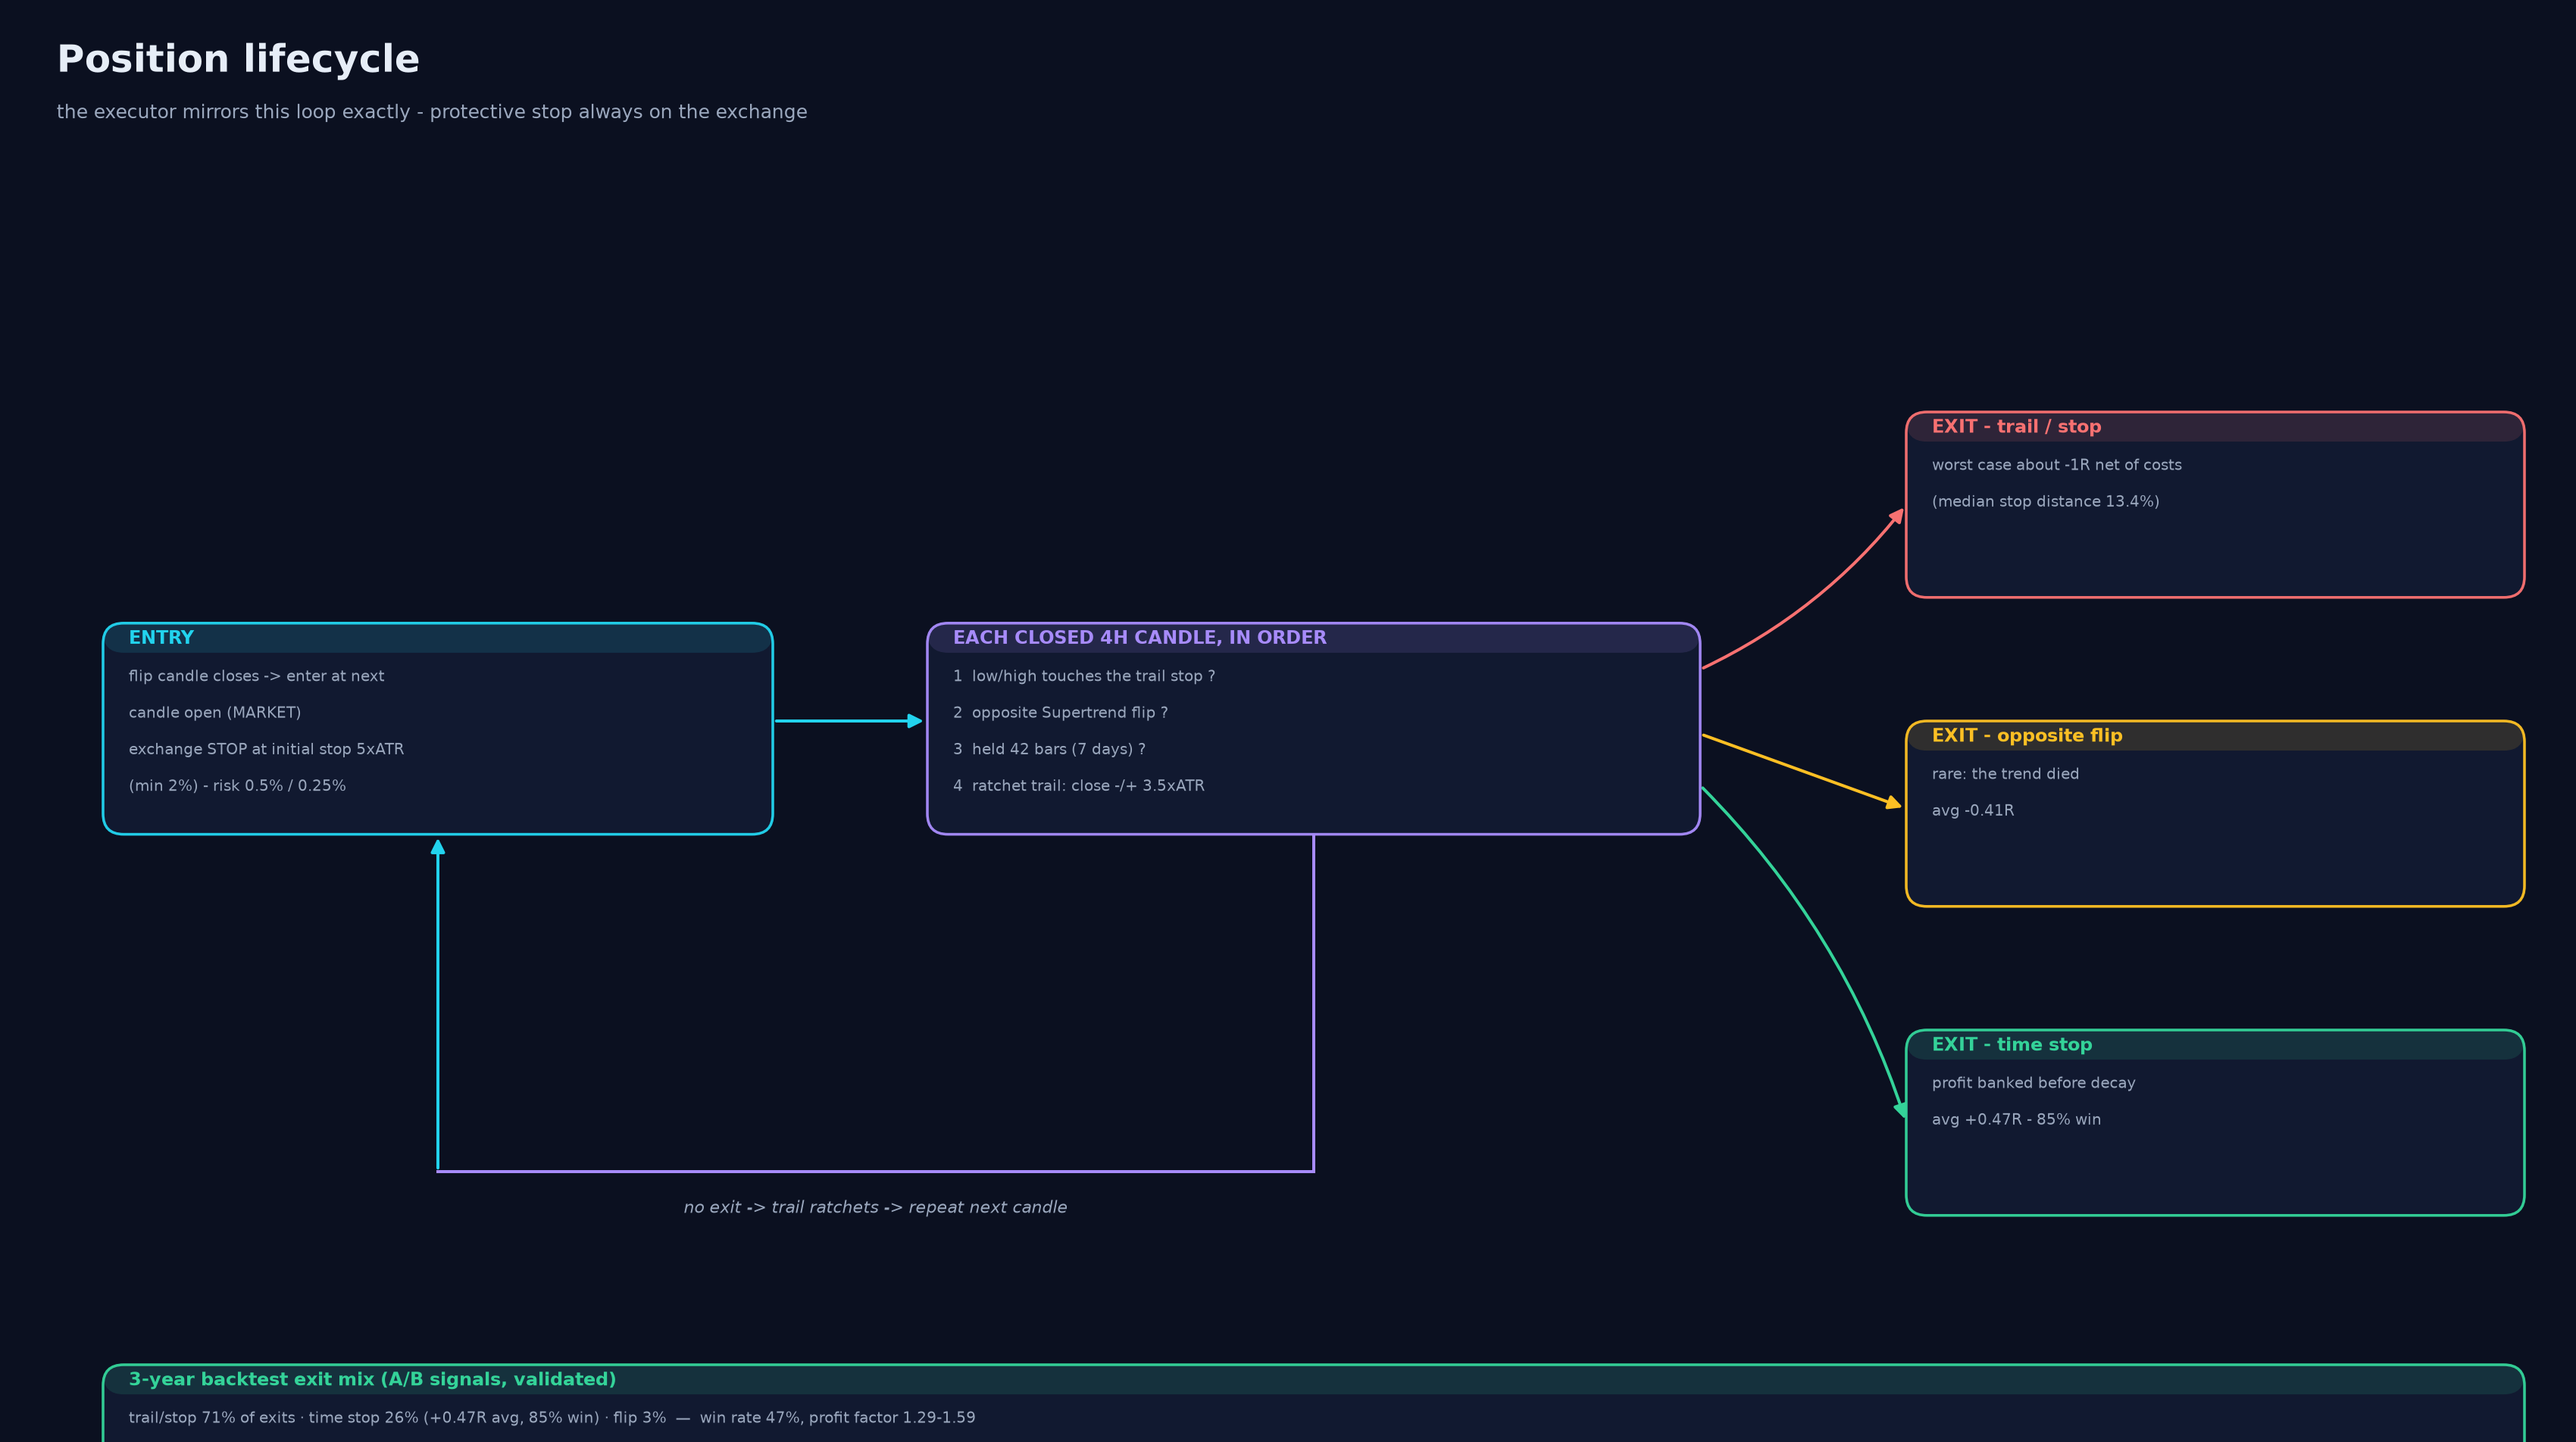
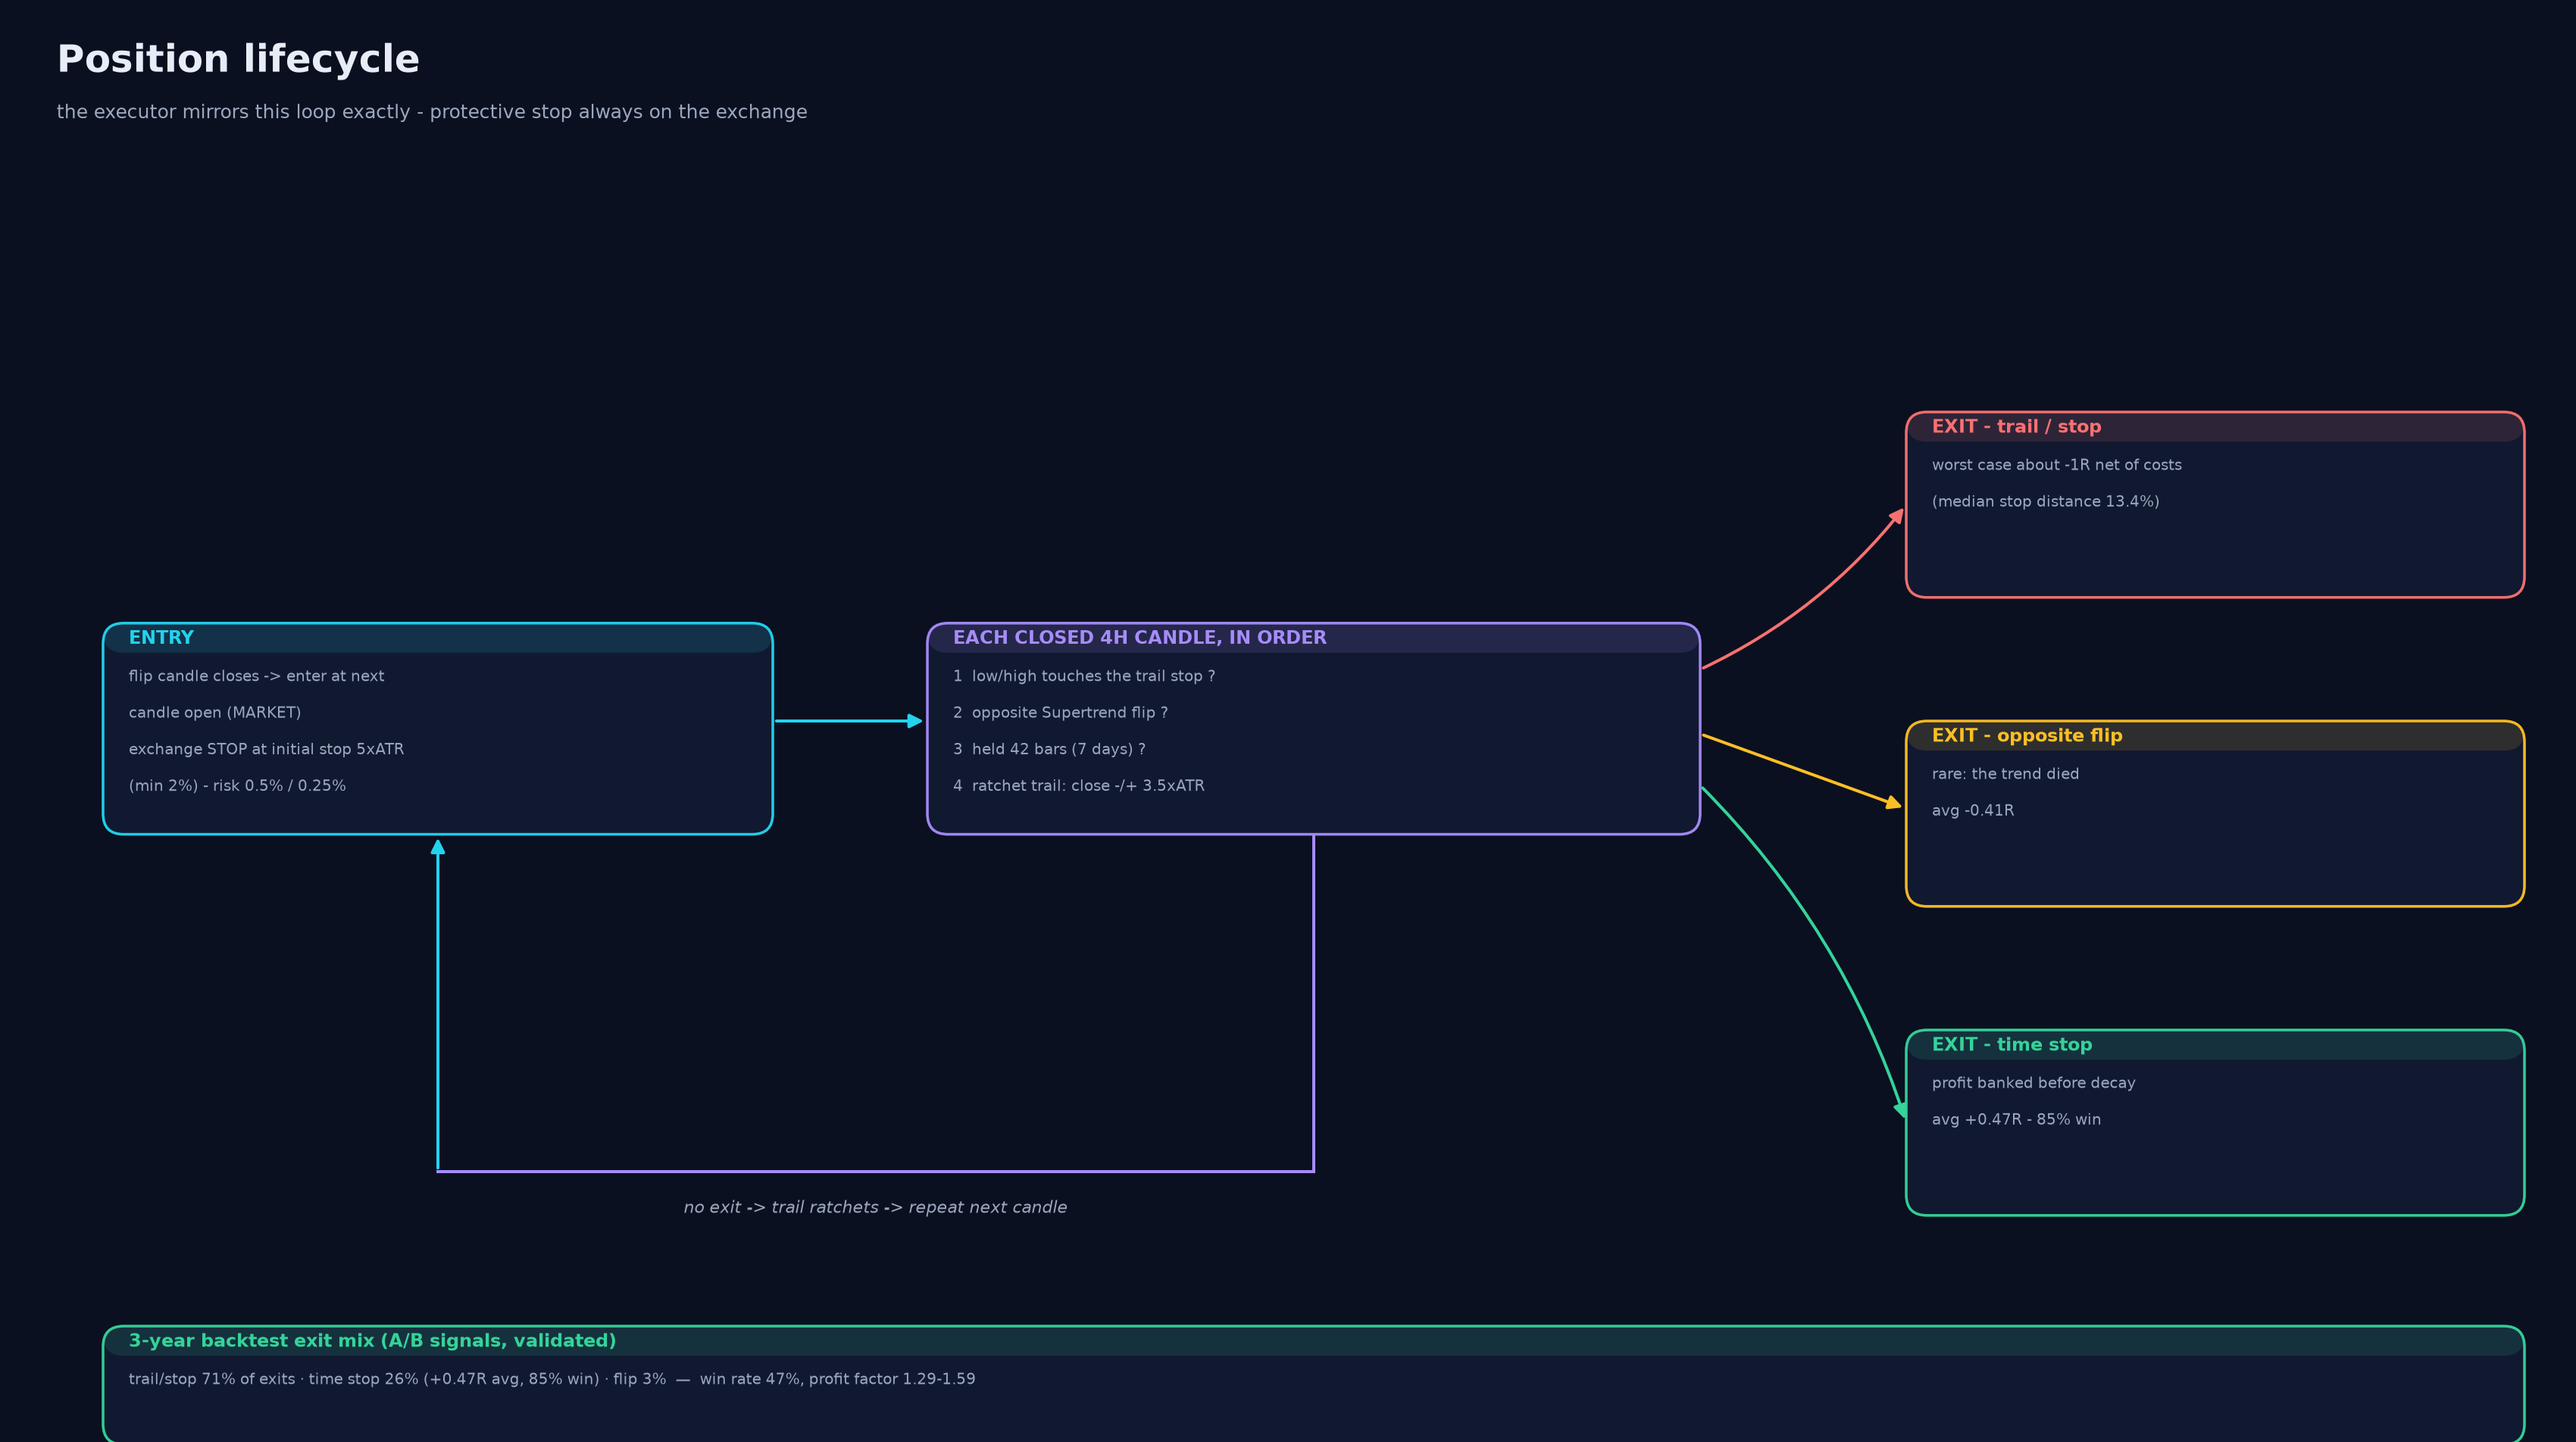
docs: opaque diagram background, bottom margin for lifecycle strip

Changed region(s): [[0.0312, 0.8986, 0.9976, 0.9916]]

diff --git a/docs/generate_diagrams.py b/docs/generate_diagrams.py
@@ -27,6 +27,9 @@ def new_fig(title, subtitle, canvas_h=H):
     fig = plt.figure(figsize=(20, canvas_h * 0.2), facecolor=BG)
     ax = fig.add_axes([0, 0, 1, 1])
     ax.set_xlim(0, W); ax.set_ylim(0, canvas_h)
+    ax.set_facecolor(BG)
+    ax.add_patch(plt.Rectangle((0, 0), W, canvas_h, fc=BG, ec="none",
+                 zorder=-10))
     ax.axis("off")
     ax.text(2.2, canvas_h - 2.4, title, color=TXT, fontsize=21,
             fontweight="bold", va="center")
@@ -280,7 +283,7 @@ arrow(ax, 17, 10.5, 17, 23.6, CY)
 ax.text(34, 8.9, "no exit -> trail ratchets -> repeat next candle",
         color=SUB, fontsize=9.5, style="italic", ha="center")
 
-box(ax, 4, 3, 94, 4.6, "3-year backtest exit mix (A/B signals, validated)",
+box(ax, 4, 4.5, 94, 4.6, "3-year backtest exit mix (A/B signals, validated)",
     ["trail/stop 71% of exits · time stop 26% (+0.47R avg, 85% win) · flip 3%  —  win rate 47%, profit factor 1.29-1.59"], EM)
 
 fig.savefig("docs/lifecycle.png", dpi=170, facecolor=BG)
